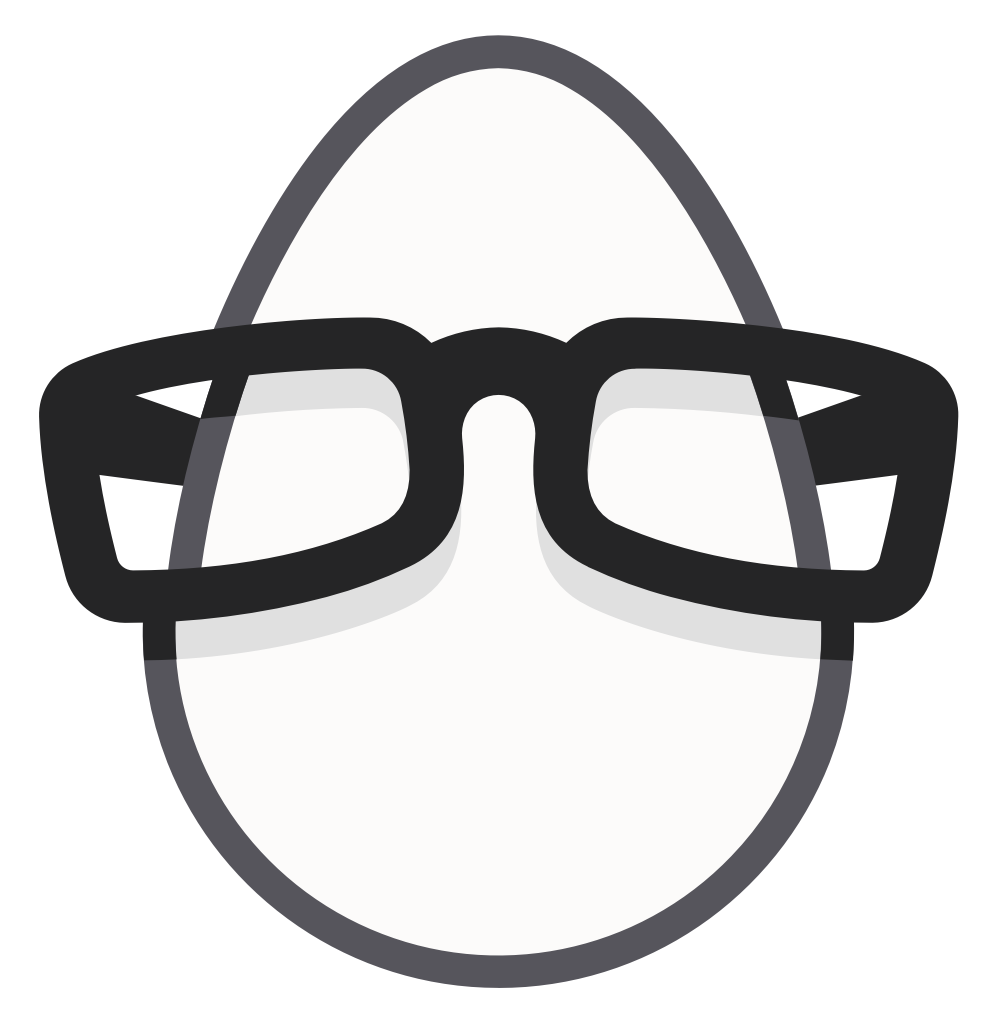
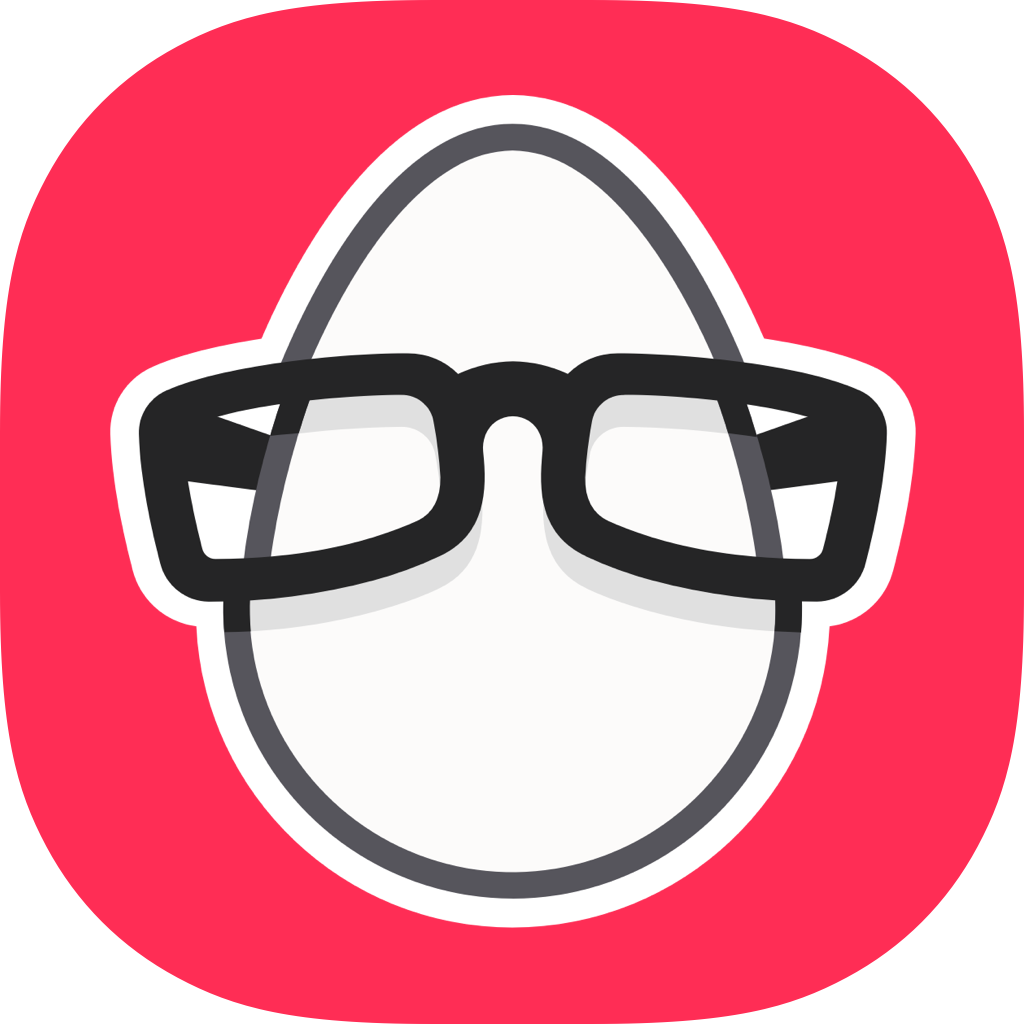
update

diff --git a/src/components/search.js b/src/components/search.js
@@ -148,7 +148,7 @@ const SearchContainer = styled('div')`
 `
 
 // Show search results after user starts typing
-const Results = connectStateResults(({searchState}) =>
+const Results = connectStateResults(({searchState, searchResults}) =>
   searchState && searchState.query ? <Hits /> : null
 )
 

diff --git a/src/utils/typographyTheme.js b/src/utils/typographyTheme.js
@@ -83,7 +83,7 @@ var theme = {
     return (
       (_ref2 = {
         a: {
-          color: '#f92300',
+          color: '#FF2D55',
           textDecoration: 'none',
         },
         'a:hover,a:active': {
